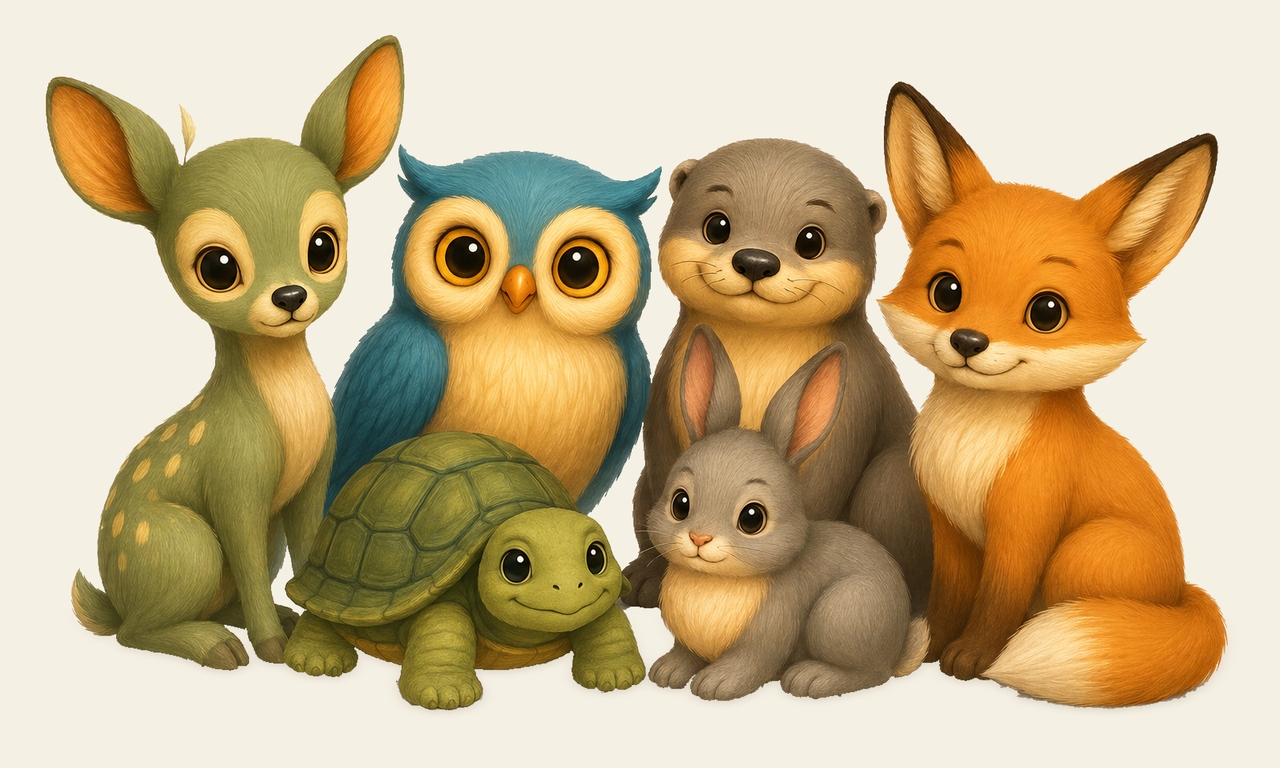
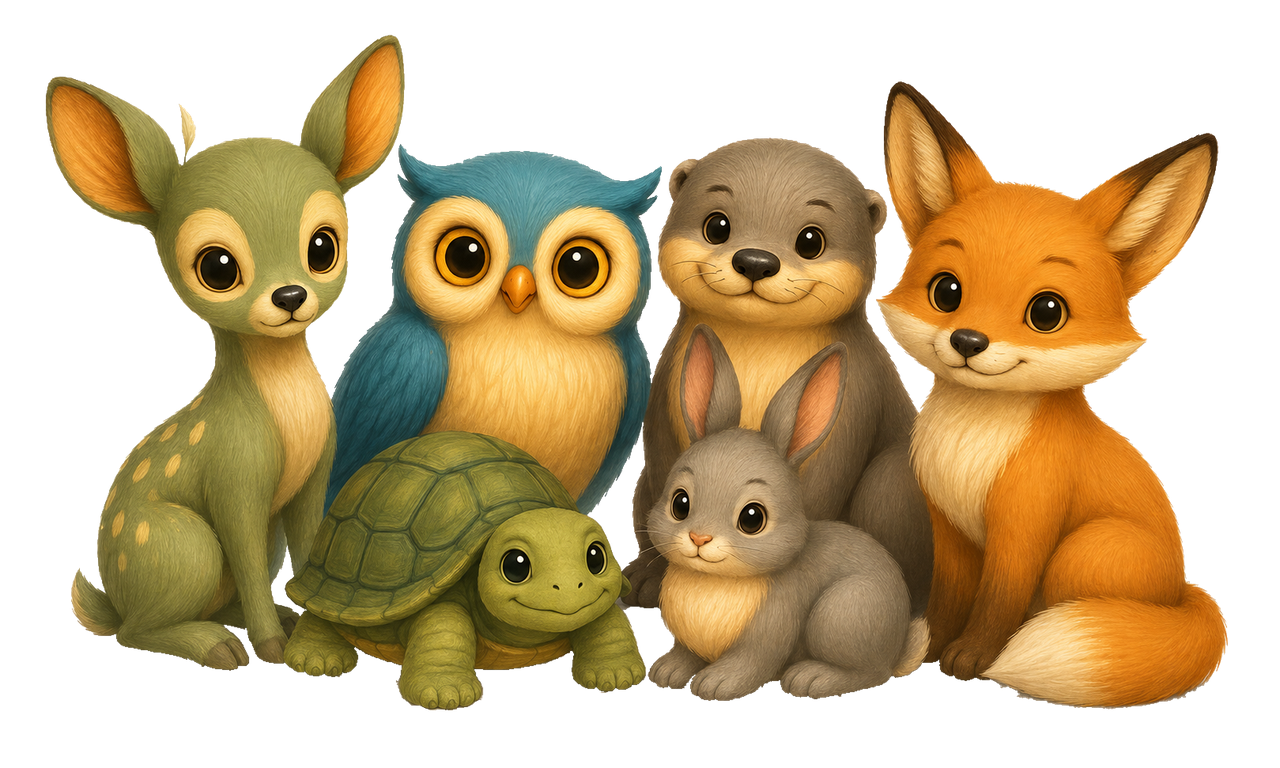
Match QuietOak companion artwork with transparent website presentation

diff --git a/quietoak/index.html b/quietoak/index.html
@@ -16,14 +16,14 @@
   <meta property="og:description" content="Talk it through with a companion that remembers you. Support in the moment, mood logging, DBT tools, and a daily diary card. The crisis kit is always free.">
   <meta property="og:url" content="https://hypersage.ai/quietoak/">
   <meta property="og:site_name" content="Quietoak">
-  <meta property="og:image" content="https://hypersage.ai/quietoak/og-image.png?v=20260908a">
+  <meta property="og:image" content="https://hypersage.ai/quietoak/og-image.png?v=20260908b">
   <meta property="og:image:width" content="1200">
   <meta property="og:image:height" content="630">
   <meta property="og:image:alt" content="Quietoak — talk it through and find a next step">
   <meta name="twitter:card" content="summary_large_image">
   <meta name="twitter:title" content="Quietoak — Talk it through. Find a next step.">
   <meta name="twitter:description" content="Talk it through with a companion that remembers you. Support in the moment, mood logging, DBT tools, and a daily diary card. The crisis kit is always free.">
-  <meta name="twitter:image" content="https://hypersage.ai/quietoak/og-image.png?v=20260908a">
+  <meta name="twitter:image" content="https://hypersage.ai/quietoak/og-image.png?v=20260908b">
   <meta name="twitter:image:alt" content="Quietoak — talk it through and find a next step">
 
   <link rel="icon" type="image/png" href="quietoak-icon.png?v=20260908a">
@@ -238,10 +238,6 @@
          height="761" attribute kept applying — a 327x761 letterbox on phones,
          with the painting floating between two empty bands. */
       width: 100%; max-width: 460px; height: auto; display: block; margin: 0 auto;
-      /* The approved portrait keeps its warm ivory canvas in every appearance. */
-      border-radius: var(--radius-lg);
-      border: 1px solid var(--border);
-      box-shadow: 0 12px 32px rgba(33,53,59,0.08);
     }
     .hero-image::after {
       content: ''; position: absolute; inset: -30px;
@@ -859,8 +855,8 @@
         <div class="hero-image">
           
           <picture>
-            <source type="image/webp" srcset="companions/group-painting.webp?v=20260908a">
-            <img src="companions/group-painting.png?v=20260908a" width="1280" height="768" fetchpriority="high"
+            <source type="image/webp" srcset="companions/group-painting.webp?v=20260908b">
+            <img src="companions/group-painting.png?v=20260908b" width="1280" height="768" fetchpriority="high"
                  alt="A painted portrait of the six Quietoak companions together — a fawn, an owl, an otter, a fox, a tortoise and a rabbit, gathered in warm light">
           </picture>
         </div>

diff --git a/quietoak/privacy.html b/quietoak/privacy.html
@@ -11,11 +11,11 @@
   <meta property="og:description" content="How Quietoak handles your data — what stays on your device, what's sent to generate companion replies, and how your mental-health content is protected.">
   <meta property="og:url" content="https://hypersage.ai/quietoak/privacy.html">
   <meta property="og:site_name" content="Quietoak">
-  <meta property="og:image" content="https://hypersage.ai/quietoak/og-image.png?v=20260908a">
+  <meta property="og:image" content="https://hypersage.ai/quietoak/og-image.png?v=20260908b">
   <meta property="og:image:width" content="1200">
   <meta property="og:image:height" content="630">
   <meta name="twitter:card" content="summary_large_image">
-  <meta name="twitter:image" content="https://hypersage.ai/quietoak/og-image.png?v=20260908a">
+  <meta name="twitter:image" content="https://hypersage.ai/quietoak/og-image.png?v=20260908b">
   <link rel="icon" type="image/png" href="quietoak-icon.png?v=20260908a">
   <link rel="apple-touch-icon" href="quietoak-icon.png?v=20260908a">
   <link rel="preconnect" href="https://fonts.googleapis.com">

diff --git a/quietoak/terms.html b/quietoak/terms.html
@@ -11,11 +11,11 @@
   <meta property="og:description" content="The terms for using Quietoak — a self-help DBT skills app. Not therapy, not a crisis service; your companion is an AI guide. 18+.">
   <meta property="og:url" content="https://hypersage.ai/quietoak/terms.html">
   <meta property="og:site_name" content="Quietoak">
-  <meta property="og:image" content="https://hypersage.ai/quietoak/og-image.png?v=20260908a">
+  <meta property="og:image" content="https://hypersage.ai/quietoak/og-image.png?v=20260908b">
   <meta property="og:image:width" content="1200">
   <meta property="og:image:height" content="630">
   <meta name="twitter:card" content="summary_large_image">
-  <meta name="twitter:image" content="https://hypersage.ai/quietoak/og-image.png?v=20260908a">
+  <meta name="twitter:image" content="https://hypersage.ai/quietoak/og-image.png?v=20260908b">
   <link rel="icon" type="image/png" href="quietoak-icon.png?v=20260908a">
   <link rel="apple-touch-icon" href="quietoak-icon.png?v=20260908a">
   <link rel="preconnect" href="https://fonts.googleapis.com">

diff --git a/quietoak/support.html b/quietoak/support.html
@@ -11,11 +11,11 @@
   <meta property="og:description" content="Need help with Quietoak? Email support@hypersage.ai. Crisis resources are always free and listed here too.">
   <meta property="og:url" content="https://hypersage.ai/quietoak/support.html">
   <meta property="og:site_name" content="Quietoak">
-  <meta property="og:image" content="https://hypersage.ai/quietoak/og-image.png?v=20260908a">
+  <meta property="og:image" content="https://hypersage.ai/quietoak/og-image.png?v=20260908b">
   <meta property="og:image:width" content="1200">
   <meta property="og:image:height" content="630">
   <meta name="twitter:card" content="summary_large_image">
-  <meta name="twitter:image" content="https://hypersage.ai/quietoak/og-image.png?v=20260908a">
+  <meta name="twitter:image" content="https://hypersage.ai/quietoak/og-image.png?v=20260908b">
   <link rel="icon" type="image/png" href="quietoak-icon.png?v=20260908a">
   <link rel="apple-touch-icon" href="quietoak-icon.png?v=20260908a">
   <link rel="preconnect" href="https://fonts.googleapis.com">

diff --git a/quietoak/safety.html b/quietoak/safety.html
@@ -11,11 +11,11 @@
   <meta property="og:description" content="Quietoak's published AI-companion self-harm safety protocol and crisis-referral process.">
   <meta property="og:url" content="https://hypersage.ai/quietoak/safety.html">
   <meta property="og:site_name" content="Quietoak">
-  <meta property="og:image" content="https://hypersage.ai/quietoak/og-image.png?v=20260908a">
+  <meta property="og:image" content="https://hypersage.ai/quietoak/og-image.png?v=20260908b">
   <meta property="og:image:width" content="1200">
   <meta property="og:image:height" content="630">
   <meta name="twitter:card" content="summary_large_image">
-  <meta name="twitter:image" content="https://hypersage.ai/quietoak/og-image.png?v=20260908a">
+  <meta name="twitter:image" content="https://hypersage.ai/quietoak/og-image.png?v=20260908b">
   <link rel="icon" type="image/png" href="quietoak-icon.png?v=20260908a">
   <link rel="apple-touch-icon" href="quietoak-icon.png?v=20260908a">
   <link rel="preconnect" href="https://fonts.googleapis.com">

diff --git a/tools/build_app_og.py b/tools/build_app_og.py
@@ -213,11 +213,8 @@ CARDS = {
          /* 440px keeps the page's sentence break ("...DBT skills." / "A crisis
             kit...") instead of orphaning "A crisis" onto the first line. */
          max-width: 440px; }
-  /* Keep the approved ivory portrait at its natural aspect ratio, with the
-     same rounded frame as the page's hero. All six companions stay visible. */
-  .art { width: 506px; height: auto; border-radius: 20px;
-         border: 1px solid rgba(33,53,59,0.12);
-         box-shadow: 0 12px 32px rgba(33,53,59,0.08); }
+  /* Match the page's transparent companion portraits at their natural aspect ratio. */
+  .art { width: 506px; height: auto; }
 """,
         "kicker": 'Quiet<span class="oak">oak</span>',
         "h1": 'Talk it through.<br><em>Find a next step.</em>',
